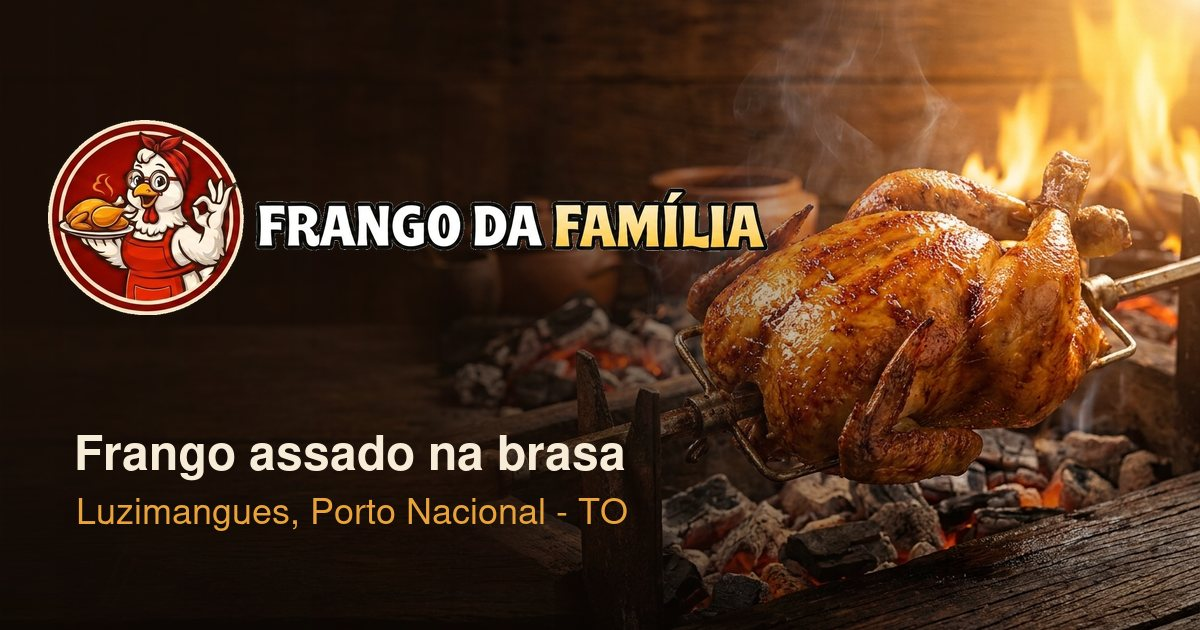
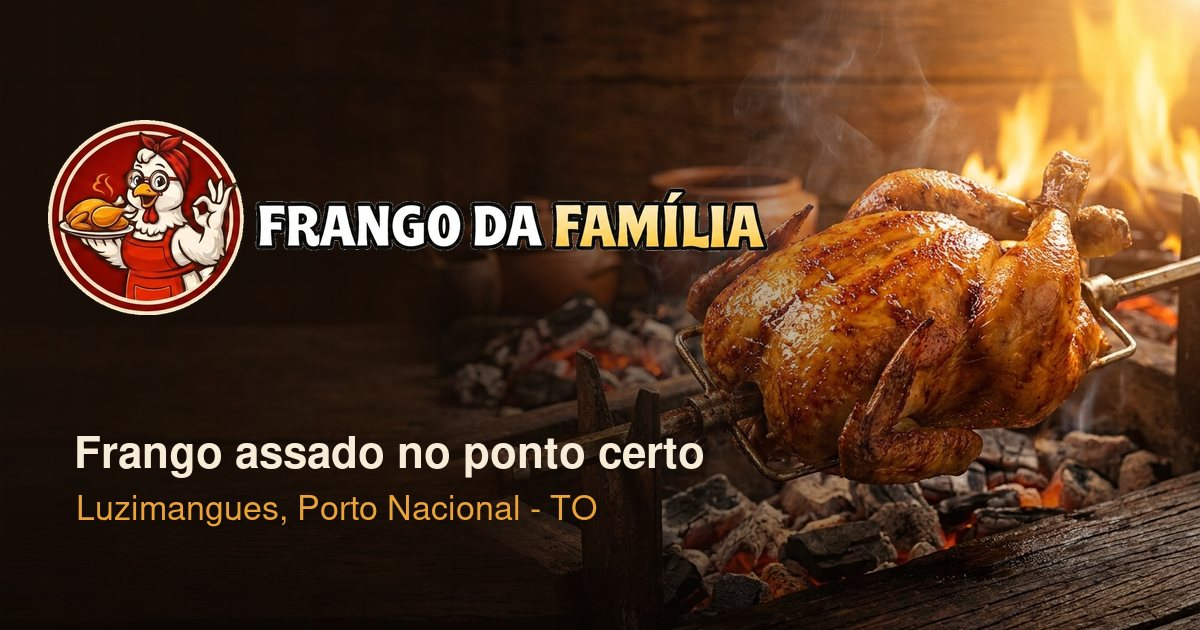
Voz da marca: 'sabor caseiro que reúne todo mundo' + no ponto certo

Changed region(s): [[0.0617, 0.6937, 0.5858, 0.8444]]

diff --git a/src/content/menu/frango-assado-inteiro.md b/src/content/menu/frango-assado-inteiro.md
@@ -1,6 +1,6 @@
 ---
 nome: Frango Inteiro
-descricao: Frango inteiro assado na brasa, com o tempero especial da casa. Serve a família toda.
+descricao: Frango inteiro assado, com o tempero especial da casa. Serve a família toda.
 preco: "50,00"
 categoria: Frangos e Carnes
 foto: /images/menu/frango-inteiro.svg

diff --git a/src/content/menu/meio-frango.md b/src/content/menu/meio-frango.md
@@ -1,6 +1,6 @@
 ---
 nome: Meio Frango
-descricao: Meio frango assado na brasa, suculento e no ponto certo. Ideal para uma ou duas pessoas.
+descricao: Meio frango assado, suculento e no ponto certo. Ideal para uma ou duas pessoas.
 preco: "25,00"
 categoria: Frangos e Carnes
 foto: /images/menu/meio-frango.svg
